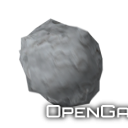
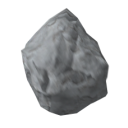
Meteors added.

diff --git a/js/core.js b/js/core.js
@@ -7,6 +7,8 @@ var falcon, falcon2;
 var background;
 var bullet_img;
 var explosionsprite = [];
+var meteorsprite = [];
+var wormhole;
 
 //Explosion
 var explosion_radius = [192/2, 256];
@@ -23,10 +25,11 @@ var falcon_fa = 90;
 
 //Objects
 var bullets = [];
+var meteors = [];
 
 var asteroid_radius = 20;
 var asteroids = [];
-var asteroids_lastbelt = 0;
+var asteroids_lastbelt = 0, meteor_lastshower = 0;
 
 var last_shot = 0;
 
@@ -45,6 +48,7 @@ var keys = [];
 var lastCalledTime, fps, lastFPSUpdate = 0;
 var canvasShake = false;
 var sound_muted = false;
+var wormholeAngle = 0;
 
 window.addEventListener("load", onLoad);
 
@@ -94,6 +98,13 @@ function onLoad() {
 	explosionsprite[1].src = "images/explosion2_sprite.png";
 	
 	
+	meteorsprite[0] = new Image();
+	meteorsprite[0].src = "images/asteroids/meteorspritedown.png";
+	meteorsprite[1] = new Image();
+	meteorsprite[1].src = "images/asteroids/meteorspriteup.png";
+	
+	wormhole = new Image();
+	wormhole.src = "images/wormhole.png";
 	render();
 	   
 }
@@ -123,6 +134,26 @@ function asteroid_belt() {
 	asteroids_lastbelt = new Date().getTime();
 }
 
+function meteor_shower() {
+	var ax = falcon_x;
+	var ay = +10;
+	var aa = -90;
+	var ty = 0;
+	if(falcon_y > canvas.height/2) {
+		ay = -10;
+		aa = -90;
+		ty = 0;
+	} else {
+		ay = canvas.height + 10;
+		aa = 90;
+		ty = 1;
+	}
+	var meteor = { angle: aa, x: ax, y: ay, frameid: 0, type: ty};
+	meteors.push(meteor);
+		
+	meteor_lastshower = new Date().getTime();
+	
+}
 
 
 function render() {
@@ -133,6 +164,11 @@ function render() {
 	if(new Date().getTime() - asteroids_lastbelt > 5000) {
 		asteroid_belt();
 	}
+	
+	if(new Date().getTime() - meteor_lastshower > 1000) {
+		meteor_shower();
+	}
+	
 	
 	falcon_fa -= keys[37] == true ? 5 : 0;
 		falcon_fa = falcon_fa < -360 ? 0 : falcon_fa;
@@ -148,6 +184,7 @@ function render() {
 	
 	move();
 	drawBackground();
+	drawWormhole();
 	drawFalcon();
 	render_objects();
 	drawScore();
@@ -177,6 +214,18 @@ function drawFalcon() {
 	ctx.rotate((falcon_fa - 90) * Math.PI/180);
 	ctx.drawImage(keys[38] == true ? falcon2 : falcon, -falcon_w/2, -falcon_h/2, falcon_w, falcon_h);
 	ctx.restore();
+	
+}
+
+function drawWormhole() {
+	
+	ctx.save();
+	ctx.translate(canvas.width/2,  canvas.height/2);
+	ctx.rotate(wormholeAngle+=0.4 * Math.PI/180);
+	ctx.drawImage(wormhole, -50, -50, 100, 100);
+	ctx.restore();
+	
+
 	
 }
 
@@ -229,6 +278,24 @@ function render_objects() {
 		}
 	} 
 
+	for(var i = 0; i < meteors.length; i++) {
+		meteors[i].x = meteors[i].x - 5* Math.cos(meteors[i].angle * Math.PI/180);
+		meteors[i].y = meteors[i].y - 5* Math.sin(meteors[i].angle * Math.PI/180);
+		
+		var sx = -20;
+		var sy = 512 * meteors[i].frameid++;
+		meteors[i].frameid = meteors[i].frameid > 5 ? 0 : meteors[i].frameid + 0;
+		
+		ctx.drawImage(meteorsprite[meteors[i].type], sx, sy, 512, 512, meteors[i].x - 48, meteors[i].y - 48, 96, 96);
+
+		
+		if(isOutOfBounds(meteors[i].x, meteors[i].y)) {
+			var index = meteors.indexOf(meteors[i]);
+			meteors.splice(index, 1);
+		}
+		
+	} 
+	
 	for(var i = 0; i < asteroids.length; i++) {
 		
 		var current_asteroid_status = true; //Dont call Falcon-Asteroid if asteroid was destroyed by a bullet
@@ -292,6 +359,8 @@ function render_objects() {
 			explosions.splice(explosions.indexOf(explosions[i]), 1);
 		}
 	}
+	
+	
 }
 
 
@@ -328,7 +397,6 @@ function checkBounds() {
 	if(falcon_y > canvas.height - falcon_h/2 || falcon_y < falcon_h/2)	{
 			falcon_vy = -falcon_vy;
 	}
-	
 }
 
 function isOutOfBounds(x, y) {
@@ -351,7 +419,7 @@ function debug() {
 function drawScore() {
 	ctx.font = 'bold 15pt Arial';
     ctx.fillStyle = 'lightgreen';
-	ctx.strokeStyle = 'lightgreen';
-	ctx.fillText("Asteroids: " + stats_destroyed + "Deaths: " + stats_deaths, canvas.width - 220, 20);
-	ctx.strokeText("Asteroids: " + stats_destroyed + " Deaths: " + stats_deaths, canvas.width - 220, 20);
+	//ctx.strokeStyle = 'lightgreen';
+	ctx.fillText("Asteroids: " + stats_destroyed + " Deaths: " + stats_deaths, canvas.width - 220, 20);
+	//ctx.strokeText("Asteroids: " + stats_destroyed + " Deaths: " + stats_deaths, canvas.width - 220, 20);
 }
